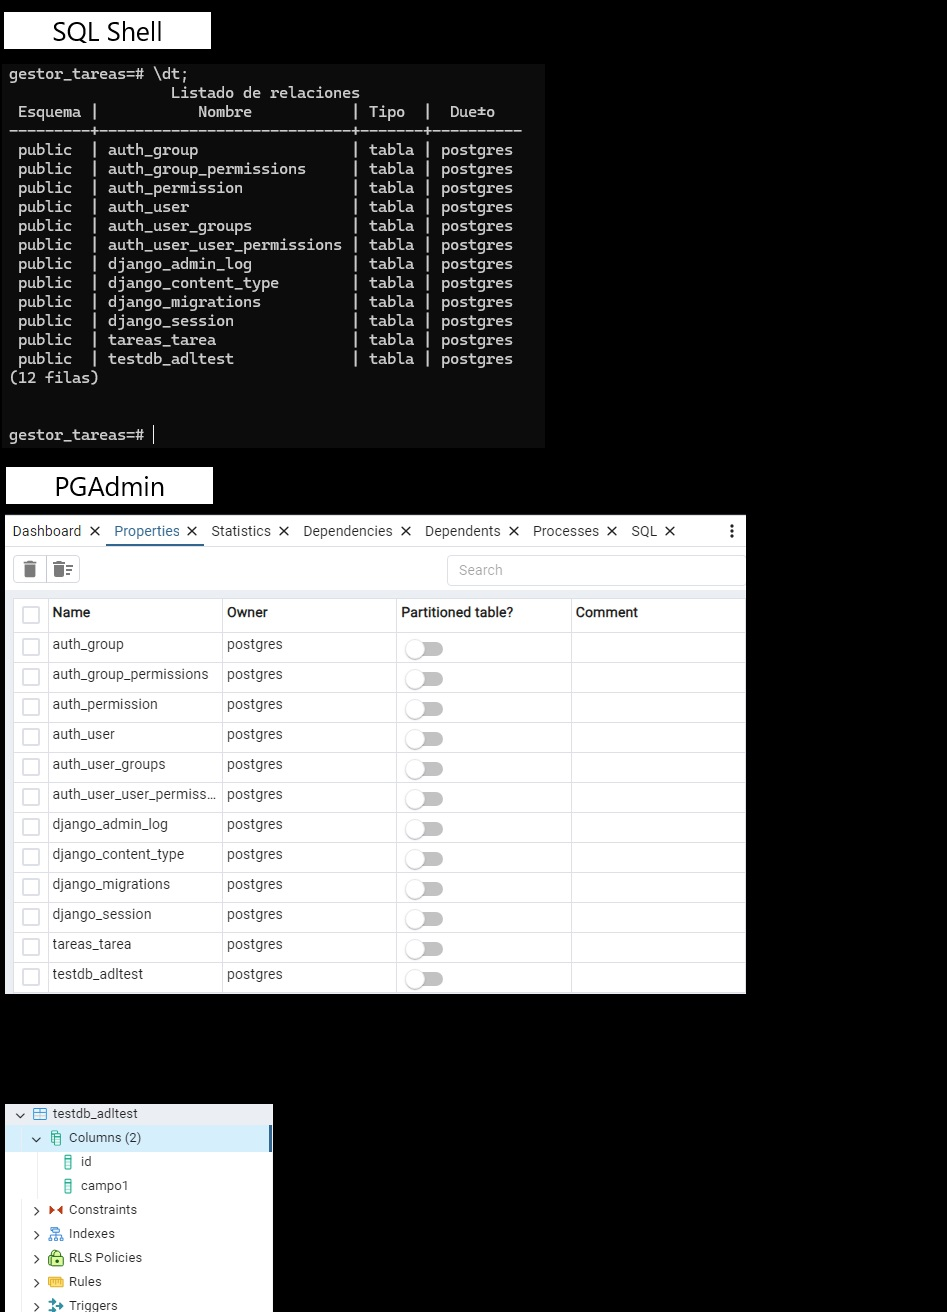
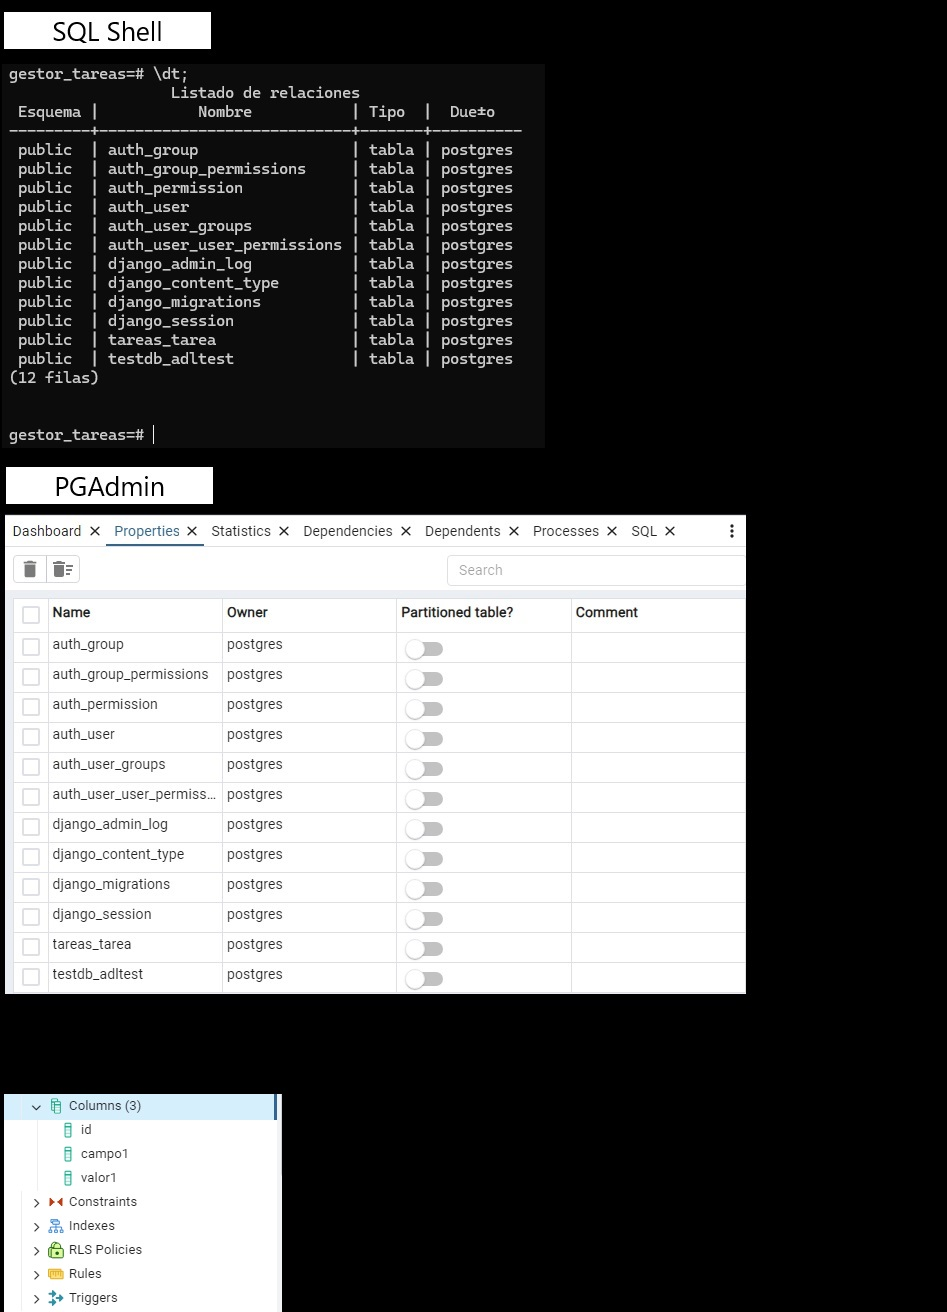
Actualizacion de imagen con columnas y tablas

Changed region(s): [[0.0, 0.8125, 0.3062, 1.0]]

diff --git a/gestor_tareas/testdb/migrations/0002_adltest_valor1.py b/gestor_tareas/testdb/migrations/0002_adltest_valor1.py
@@ -1,0 +1,19 @@
+# Generated by Django 5.1.2 on 2024-11-06 00:26
+
+from django.db import migrations, models
+
+
+class Migration(migrations.Migration):
+
+    dependencies = [
+        ('testdb', '0001_initial'),
+    ]
+
+    operations = [
+        migrations.AddField(
+            model_name='adltest',
+            name='valor1',
+            field=models.IntegerField(default=0),
+            preserve_default=False,
+        ),
+    ]

diff --git a/gestor_tareas/testdb/models.py b/gestor_tareas/testdb/models.py
@@ -3,4 +3,4 @@ from django.db import models
 
 class adltest(models.Model):
     campo1 = models.CharField(max_length=100)
-    valor1 = models.IntegerField
+    valor1 = models.IntegerField()
